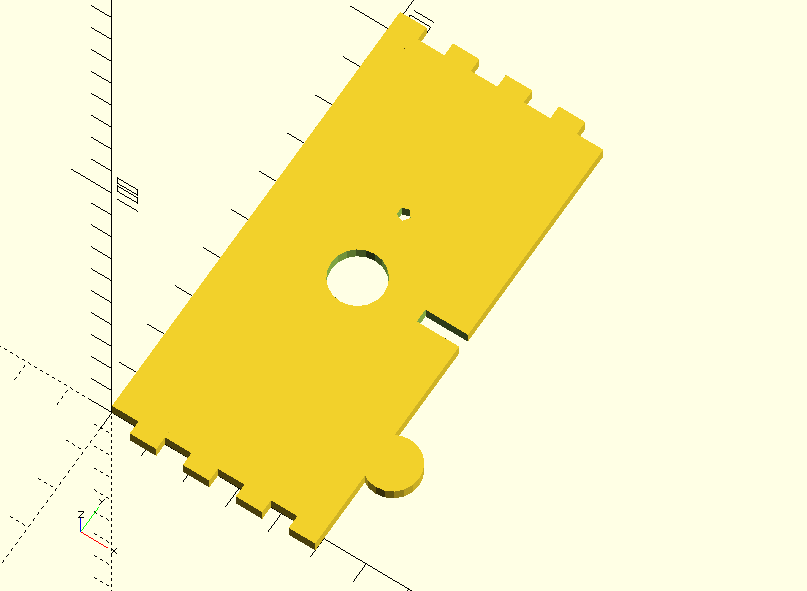
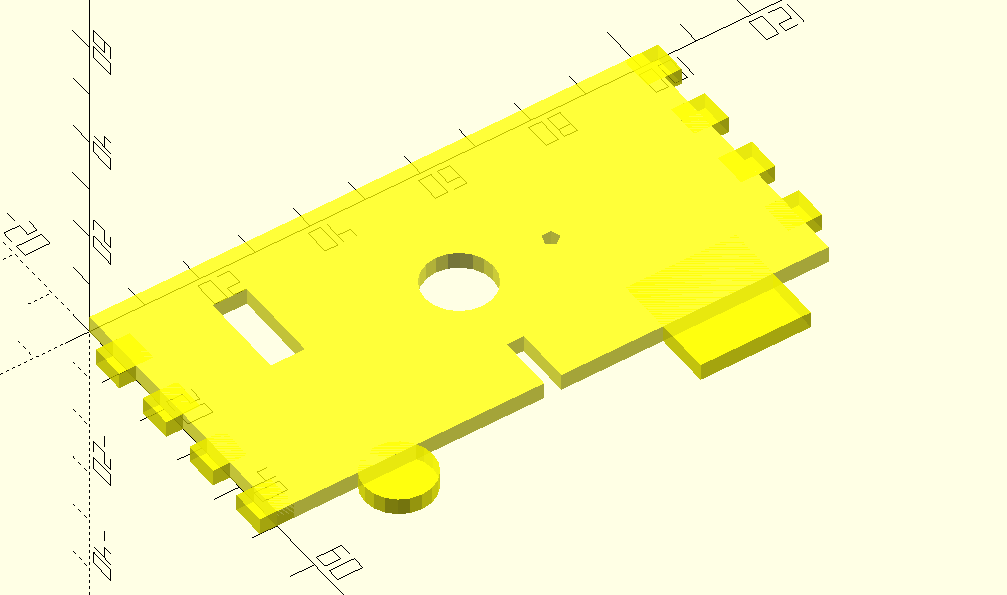
Add squares_add functionality

diff --git a/README.md b/README.md
@@ -342,6 +342,9 @@ lasercutoutSquare(thickness=thickness, x=x, y=y,
             [r, x/2, y/2],
             [1.5, x/2, y*2/3], // Screw-hole
         ],
+    squares_add = [
+            [20, 20, x, y-20]
+        ],
     slits = [
             [RIGHT,x,y/2,10]
         ],
@@ -351,7 +354,7 @@ lasercutoutSquare(thickness=thickness, x=x, y=y,
     );
     
 ```
-![alt tag](https://raw.githubusercontent.com/bmsleight/lasercut/master/readme/example-007.png)
+![alt tag](readme/example-007.png)
     
 
 ## Complex Example
